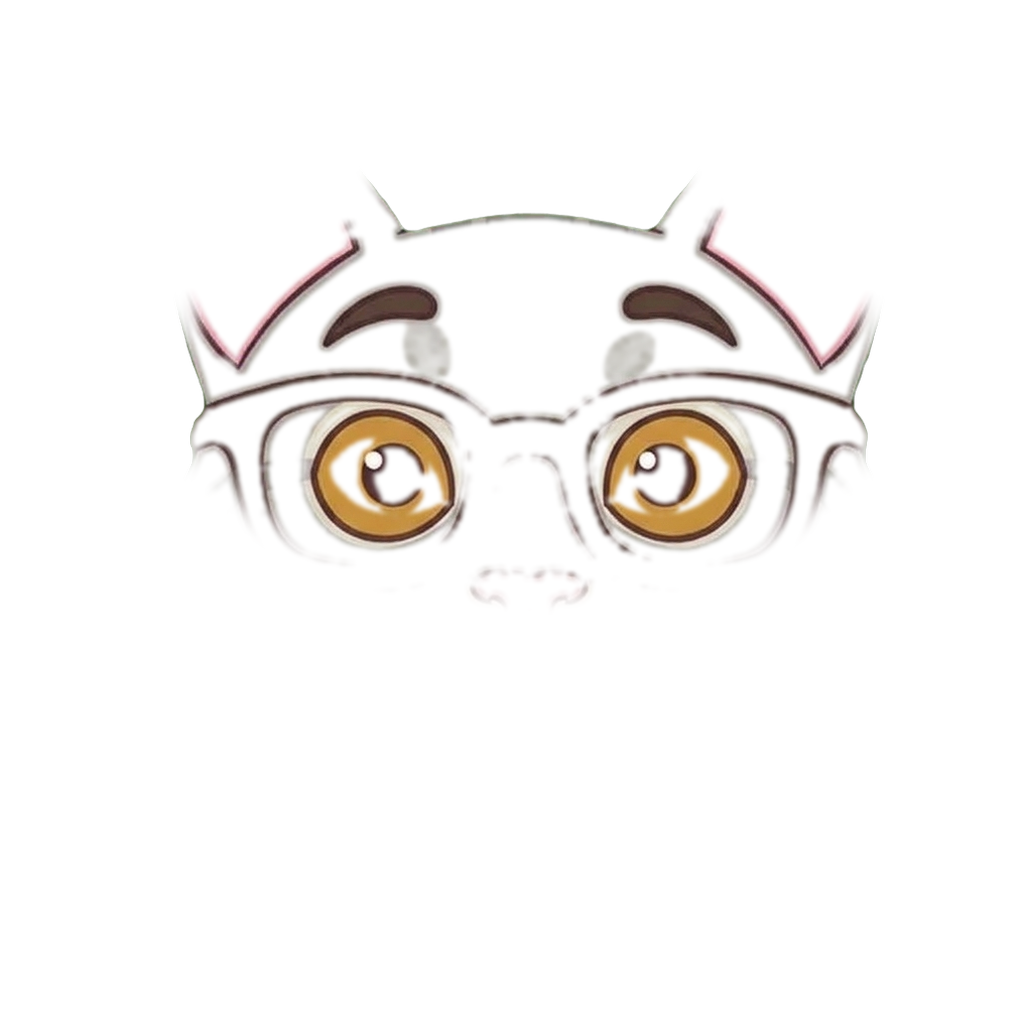
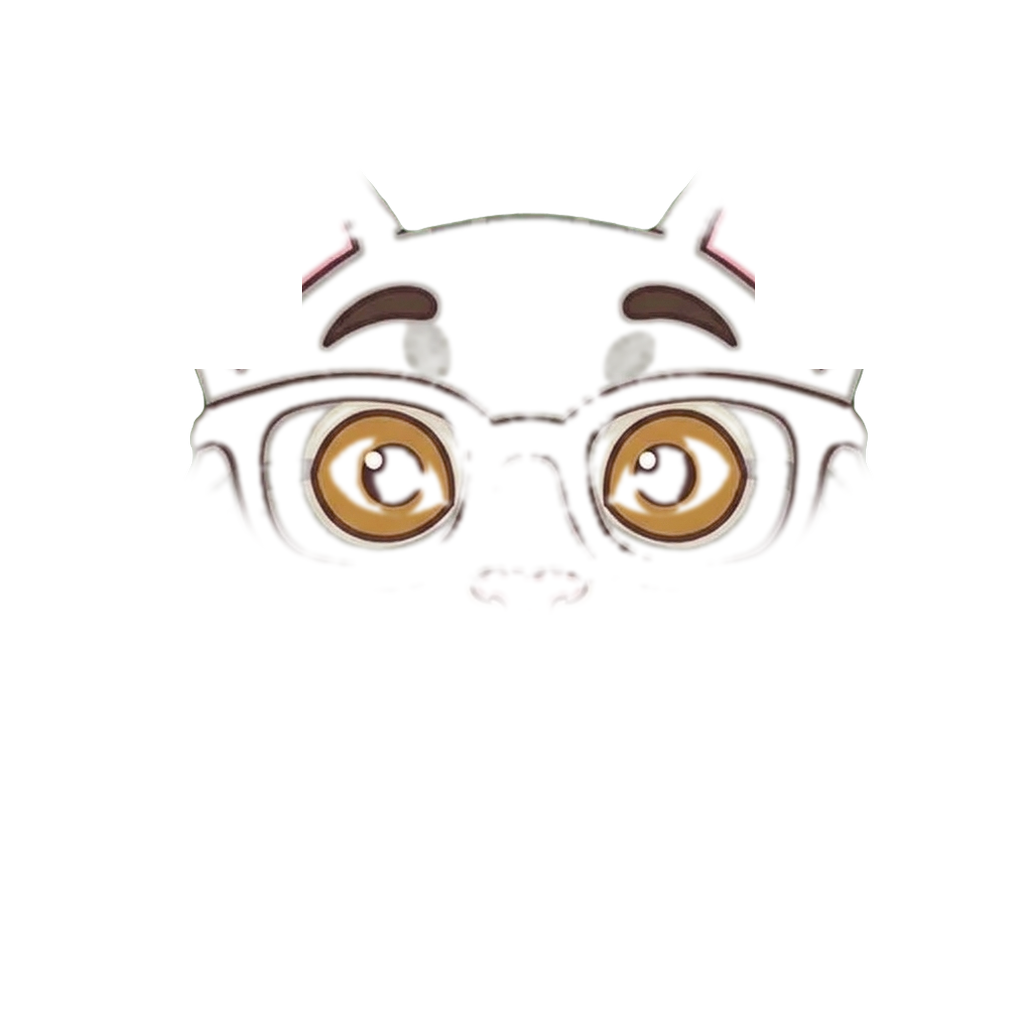
v4: ojos sueltos: color de iris igualado al ámbar de la base; se descartan restos de orejas
Claude-Session: https://claude.ai/code/session_01NybaBEBQ36CdbDeKLNGsjf

Changed region(s): [[0.7188, 0.2812, 0.875, 0.375], [0.1562, 0.2812, 0.3125, 0.375]]

diff --git a/factory/mascot/v4/parts_eyes_single.py b/factory/mascot/v4/parts_eyes_single.py
@@ -9,6 +9,21 @@ sys.path.insert(0, V3)
 import parts as P
 from parts_eyes import BROW
 
+def _iris(a):
+    r, g, b = a[..., 0], a[..., 1], a[..., 2]
+    return (r > g + 15) & (g > b + 40) & (r > 110) & (r - b > 80)
+
+def match_iris(p, base):
+    """Gemini a veces pinta el iris más naranja/amarillo: se lleva al ámbar medio de la base (conserva el sombreado)."""
+    reg = (slice(380, 600), slice(260, 780))
+    B = np.asarray(base.convert("RGB")).astype(np.float32); A = np.asarray(p.convert("RGB")).astype(np.float32)
+    mb = _iris(B[reg]); ma = _iris(A[reg])
+    if mb.sum() < 500 or ma.sum() < 500: return p
+    k = B[reg][mb].mean(0) / A[reg][ma].mean(0)
+    m = _iris(A)
+    A[m] = np.clip(A[m] * k, 0, 255)
+    out = Image.fromarray(A.astype(np.uint8)).convert("RGBA"); out.putalpha(p.split()[3]); return out
+
 def main():
     base = Image.open(os.path.join(V3, "base.png")).convert("RGBA"); size = base.size
     nb = P.nose_box(base, (300, 450, 724, 700)); gb = P.glasses_box(base, nb[1])
@@ -21,11 +36,15 @@ def main():
         n2 = P.nose_box(cell, (int(cell.width * 0.2), int(cell.height * 0.3), int(cell.width * 0.8), int(cell.height * 0.75)))
         g2 = P.glasses_box(cell, n2[1]); sc = gw / (g2[2] - g2[0])
         p = P.place(cell, sc, ((g2[0] + g2[2]) / 2, (g2[1] + g2[3]) / 2), (gcx, gcy), size)
+        p = match_iris(p, base)
         a = np.minimum(np.asarray(p.split()[3]), np.asarray(mask)).astype(np.float32)
         # solo lo que de verdad cambia respecto a la base (ojos, cejas, trazo): el pelo y los bloques JPEG de Gemini quedan fuera
         diff = np.abs(np.asarray(p.convert("RGB")).astype(np.float32) - np.asarray(base.convert("RGB")).astype(np.float32)).max(axis=2)
         d = Image.fromarray((np.clip((diff - 28) / 32, 0, 1) * 255).astype(np.uint8)).filter(ImageFilter.MaxFilter(7)).filter(ImageFilter.GaussianBlur(2))
-        p.putalpha(Image.fromarray((a * np.asarray(d) / 255).astype(np.uint8)))
+        a = a * np.asarray(d) / 255
+        yy, xx = np.mgrid[0:size[1], 0:size[0]]
+        a[(yy < gb[1] - 5) & ((xx < gb[0] + 110) | (xx > gb[2] - 110))] = 0      # las orejas de Gemini no se cuelan por las esquinas de la frente
+        p.putalpha(Image.fromarray(a.astype(np.uint8)))
         p.save(os.path.join(S, f"eyes_{name}.png")); print(name, "escala", round(sc, 3))
         t = Image.new("RGBA", size, (255, 255, 255, 255)); t.alpha_composite(base); t.alpha_composite(p)
         thumbs.append(t.convert("RGB").crop((120, 250, 920, 700)).resize((400, 225)))
